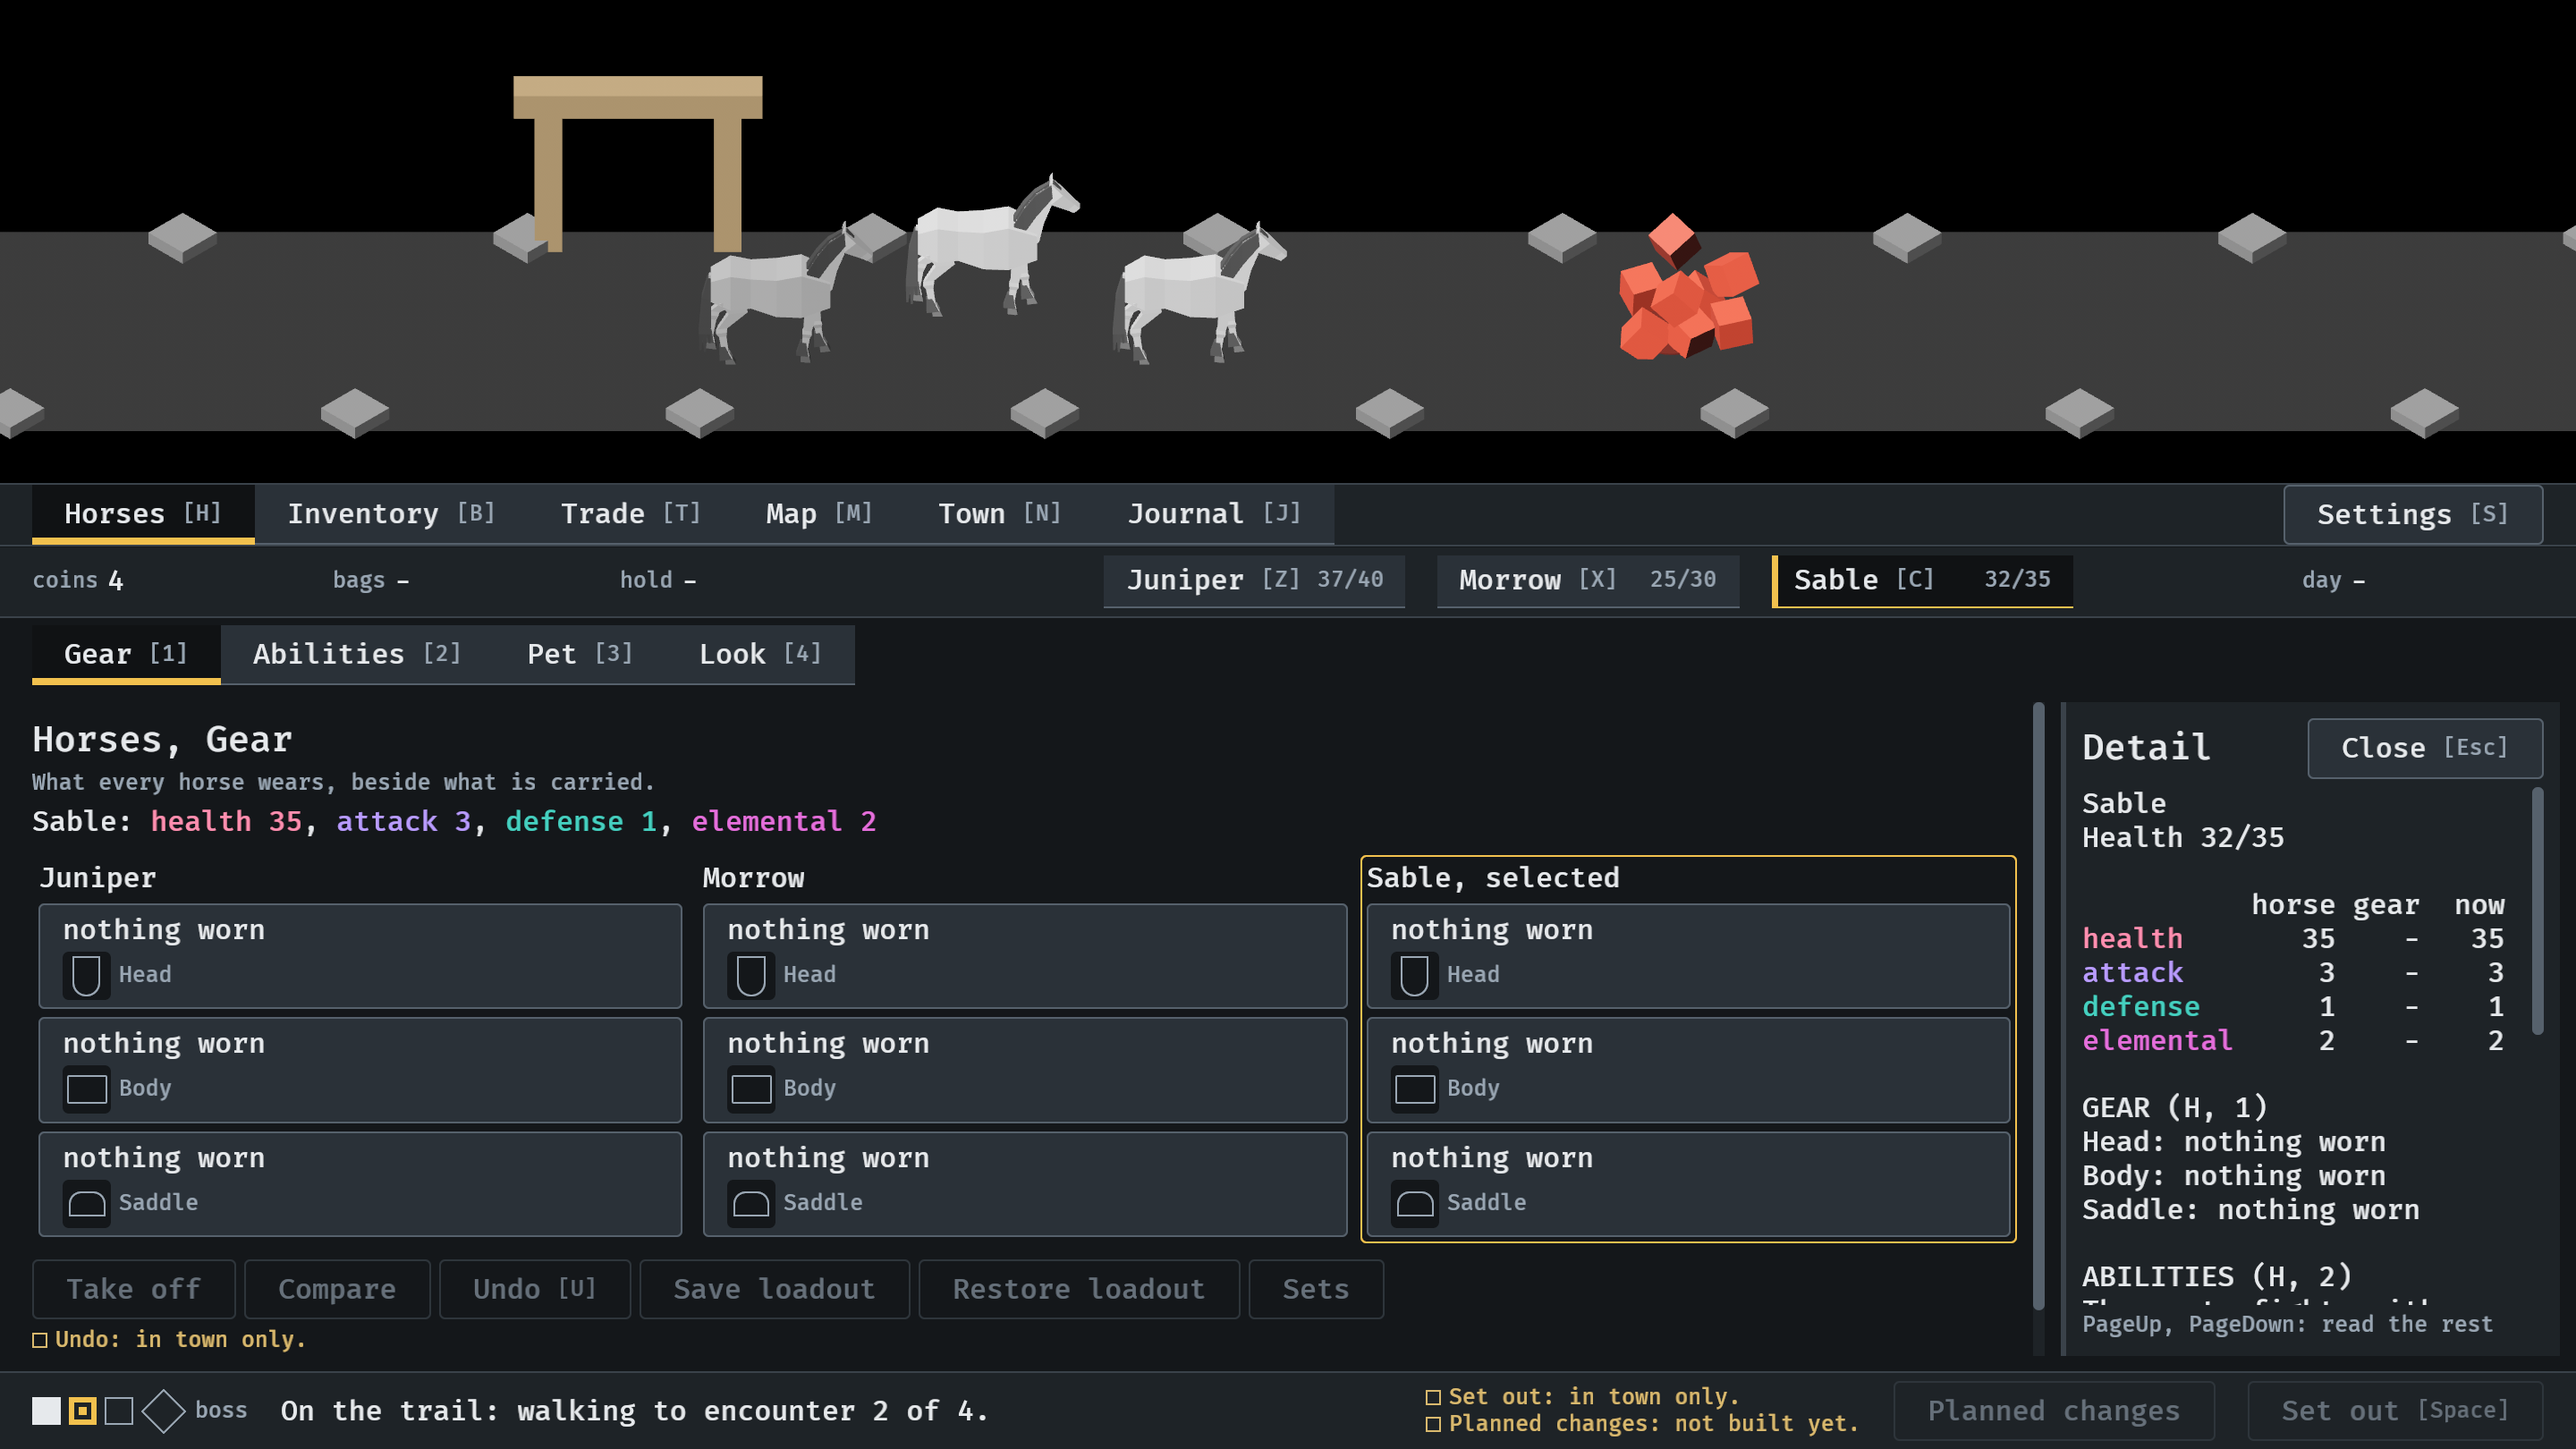
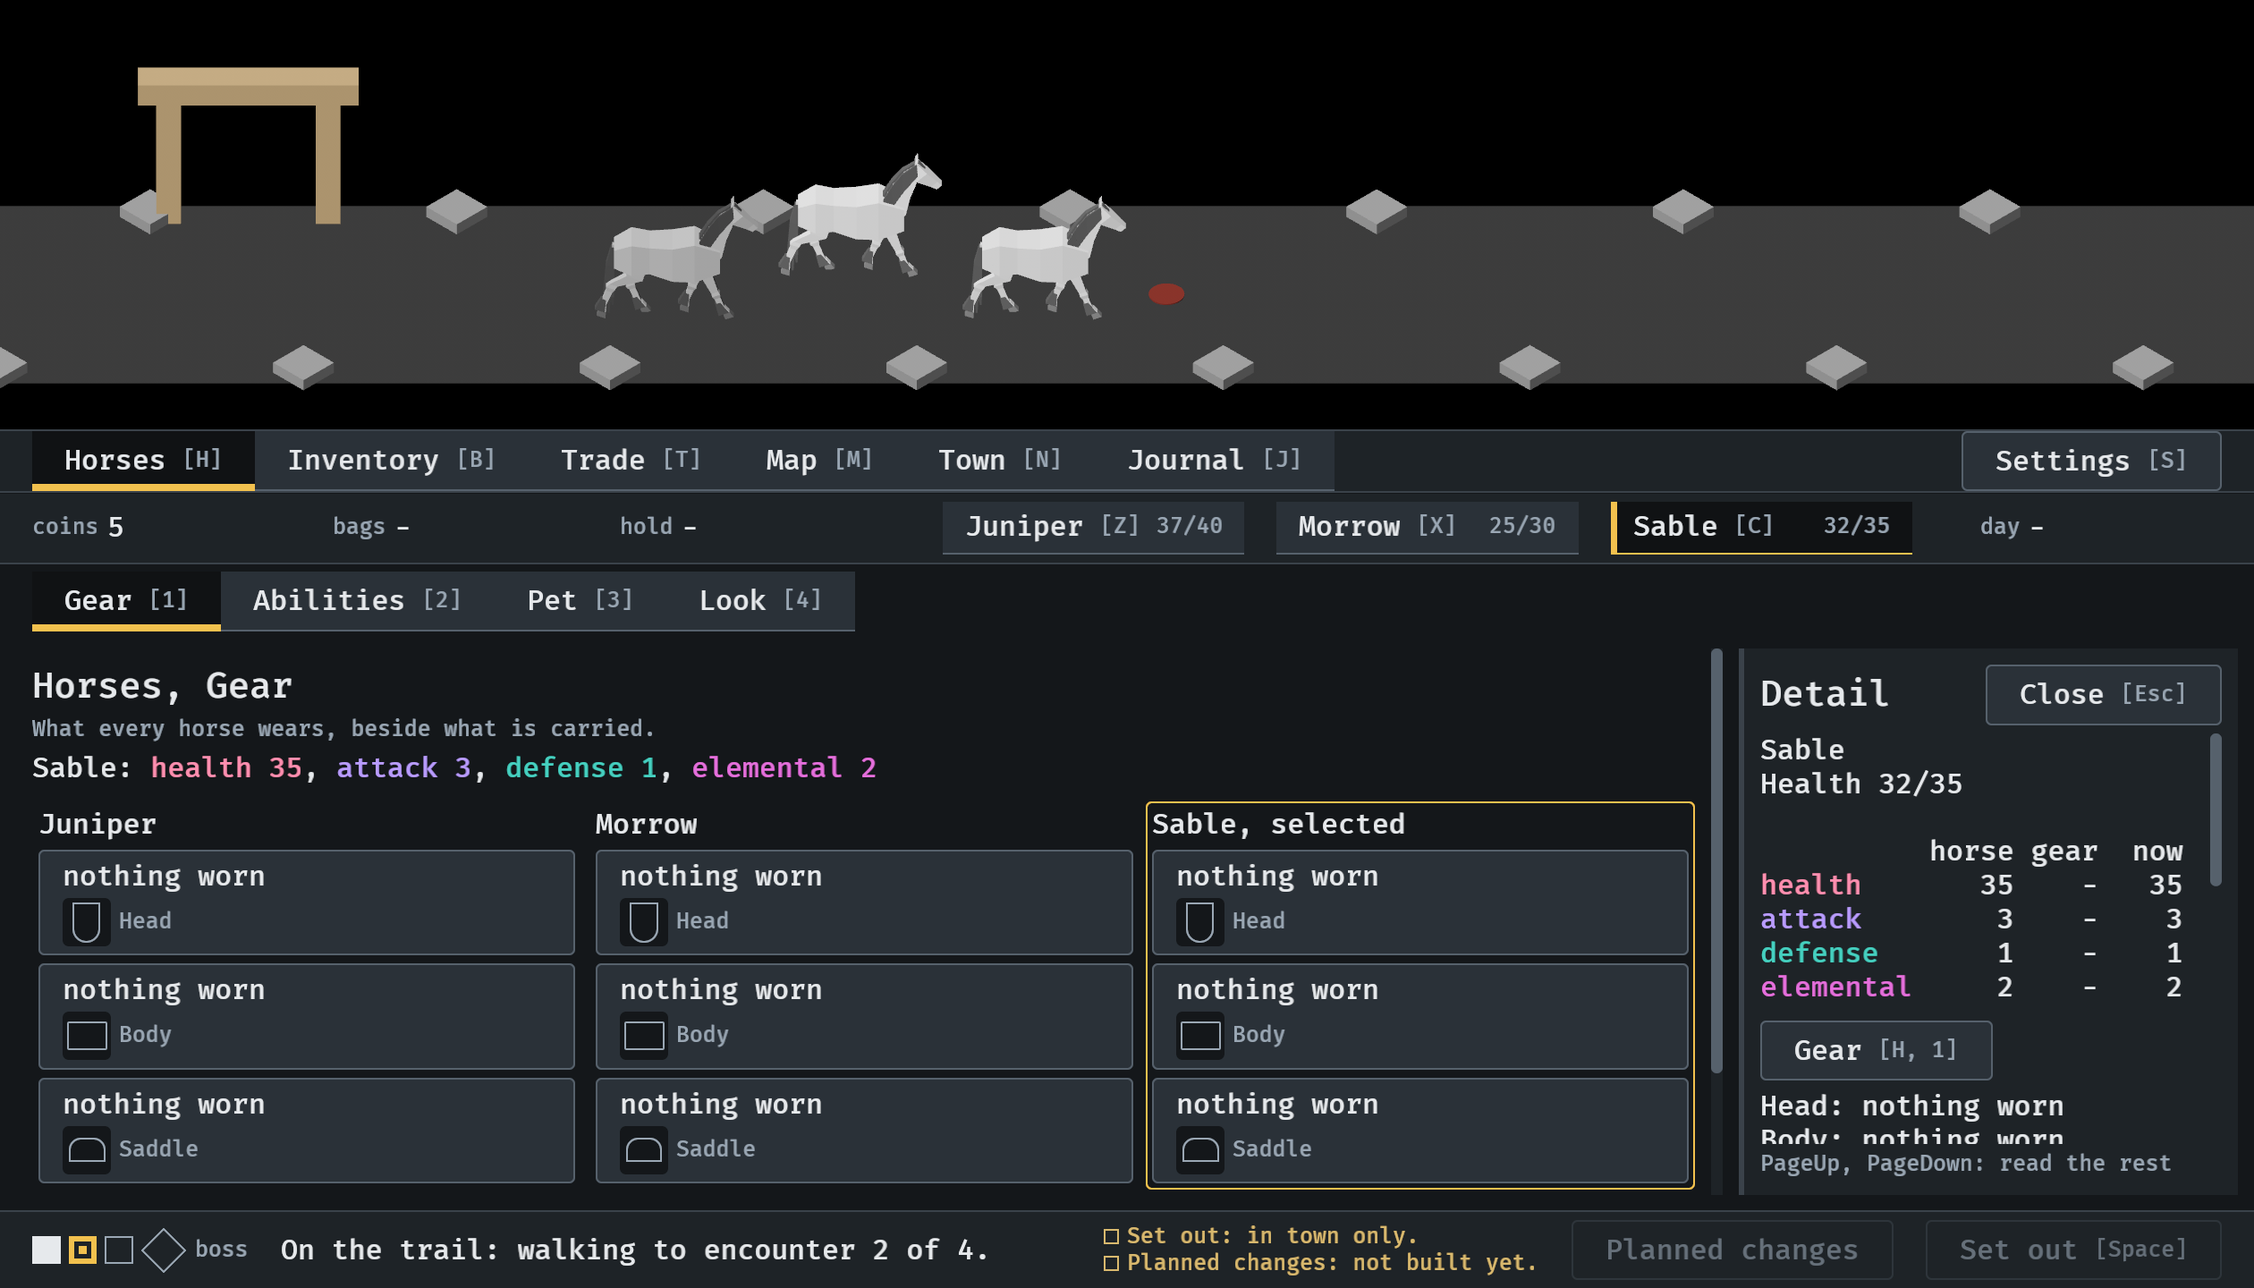
Session log and docs: a horse's parts go to their tab
Claude-Session: https://claude.ai/code/session_018i5GkugzeqX35JFzG8FV1P

diff --git a/docs/menu-shell.md b/docs/menu-shell.md
@@ -396,8 +396,8 @@ A press on a horse in the strip, or its key (Z, X, C), selects it and opens
 everything about it in the side panel of the place the player is in (#311;
 the owner: "Clicking a horse should open up an inspection screen that lets
 you view all the information about that horse"). `Shell::inspect`,
-`Item::Horse`, `horse_view` in the shell, `card::horse_sheet` and
-`card::horse_wears`.
+`Item::Horse`, `spawn_horse_parts`, `horse_part` and `Shell::go_to` in the
+shell, `card::horse_sheet` and `card::horse_wears`.
 
     Sable
     Health 32/35
@@ -407,14 +407,14 @@ you view all the information about that horse"). `Shell::inspect`,
     attack        3   +2    5
     ...
 
-    GEAR (H, 1)
+    [ Gear [H, 1] ]
     Head: Sunforged Halter
       +15 health  +2 attack ...
     Body: nothing worn
     ...
-    ABILITIES (H, 2)
-    PET (H, 3)
-    LOOK (H, 4)
+    [ Abilities [H, 2] ]
+    [ Pet [H, 3] ]
+    [ Look [H, 4] ]
     LAST TRAIL
 
 - **Every total is accounted for:** what the horse has by itself, what its
@@ -422,8 +422,13 @@ you view all the information about that horse"). `Shell::inspect`,
   named with what it adds. The table is 25 letters wide, which the
   narrowest side panel (the cargo's room, 248) holds.
 - **A part for each tab of the horses' place**, from `places.ron`, headed
-  by the tab's name and the keys that lead to it, since that is where the
-  part is changed. A tab that is not built says so with its job.
+  by a button with the tab's name and the keys that lead to it, since that
+  is where the part is changed. A tab that is not built says so with its
+  job.
+- **A press on a part goes to its tab**, from any place and on the road:
+  the Horses place opens on that tab, with the horse still selected. The
+  view is put away there, as it stands over the cargo the tab works with,
+  and it stays open in the place the player came from.
 - **On the road** its health is the fight's, and with every place closed
   the press opens the place that was last open, with the view in it.
 - **A pinned piece stays.** While a piece's card is pinned in that side
@@ -434,7 +439,7 @@ you view all the information about that horse"). `Shell::inspect`,
 - At the smallest window it is longer than the panel; PageDown reads on.
 
 Not here yet: what the horse did on the last trail (nothing is kept for
-each horse), and a control on each part that goes to its tab.
+each horse).
 
 ## A tab that does not fit
 

diff --git a/docs/gallery/2026-10-11-horse-view/README.md b/docs/gallery/2026-10-11-horse-view/README.md
@@ -12,3 +12,7 @@ window (1120x640), read by the session. How it works:
 **2.** On the road, a press on Sable: its health is the fight's.
 
 ![Sable's view on the road, at 32 of 35 health.](02-on-the-road.png)
+
+**3.** Each part is headed by a button that goes to its tab. A press on Abilities in Morrow's view: the Horses place is on Abilities, Morrow still selected, and the view is put away.
+
+![The Abilities tab, opened from Morrow's view.](03-a-part-goes-to-its-tab.png)
